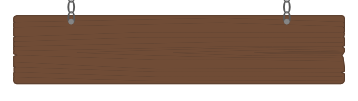
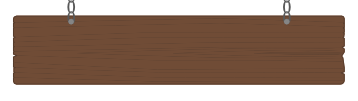
add hangSigns, css, cart

diff --git a/src/scss/_header.scss b/src/scss/_header.scss
@@ -30,32 +30,45 @@ header {
 nav {
   width: 100%;
 
+  display: flex;
+  flex-direction: row;
+  justify-content: space-between;
+  gap: 70px;
+
   .logo-container {
     display: flex;
     // width: 5em;
-    height: 100px;
-    width: 5vw;
+    height: 10vh;
+    width: 10vw;
     justify-content: center;
     align-items: center;
     cursor: pointer;
 
     .logo-icon {
-      position: fixed;
-      top: 3vh;
-      left: 6vw;
+      // position: fixed;
+      margin-left: 20vw;
+      margin-top: 3vh;
+      // top: 3vh;
+      // // align-self: center;
+      // left: 6vw;
       mix-blend-mode: multiply;
 
-      height: 7%;
+      height: 7vh;
       @include mixins.tablet {
         left: 2vw;
         top: 15px;
       }
       @include mixins.desktop {
-        left: 2vw;
-        top: 25px;
+        margin-left: 2vw;
+        // left: 2vw;
+        // top: 2vh; //25px;;
 
         // font-size: 4rem;
         // color: white;
+      }
+
+      &:hover {
+        mix-blend-mode: soft-light; //soft-light eller color-burn
       }
     }
   }
@@ -66,12 +79,6 @@ nav {
     flex-direction: row;
     justify-content: center;
   }
-
-  display: flex;
-  flex-direction: row;
-  justify-content: space-between;
-  gap: 70px;
-
   .desktopnav-menu {
     display: none;
     flex-direction: column;
@@ -91,23 +98,69 @@ nav {
 
   .menu-link {
     text-decoration: none;
-    color: white;
+    color: col.$color-burned;
+    mix-blend-mode: multiply;
+    font-family: "Cinzel", serif;
+    font-weight: bold;
 
     &:hover {
-      color: grey;
+      mix-blend-mode: color-burn; //soft-light eller color-burn
+      color: rgb(200, 200, 200);
     }
   }
 
   .shoppingcart-container {
     display: flex;
-    width: 80px;
+    width: 10vw;
+    height: 10vh;
+    // width: 80px;
     justify-content: center;
     align-items: center;
     cursor: pointer;
+    display: flex;
 
-    .icon {
-      font-size: 4rem;
-      color: white;
+    // @include mixins.desktop {
+    //   // padding-left: 30px;
+    //   padding-right: 0px;
+    // }
+
+    .cart-icon {
+      // margin-left: 10vw;
+      // margin-top: 1vh;
+      // margin-left: 20vw;
+      margin-top: 2vh;
+      // position: fixed;
+      // top: 2vh;
+      mix-blend-mode: multiply;
+
+      // height: 7%;
+      // position: fixed;
+      // top: 3vh;
+      // align-self: center;
+      // left: 6vw;
+      margin-right: 12vw;
+
+      mix-blend-mode: multiply;
+      height: 7vh;
+
+      // height: 50px;
+      @include mixins.tablet {
+        right: 2vw;
+        top: 15px;
+      }
+      @include mixins.desktop {
+        // top: 1.5vh; //25px;
+        margin-right: 2vw;
+        margin-top: 1.5vh;
+
+        // left: 2vw;
+        // top: 2vh;//25px;;
+        // font-size: 4rem;
+        // color: white;
+      }
+      &:hover {
+        mix-blend-mode: soft-light; //soft-light eller color-burn
+      }
     }
   }
 }
@@ -116,14 +169,22 @@ nav {
 #hamburgerButton {
   justify-content: center;
   align-items: center;
-  background-color: col.$color-accent-purple;
-  width: 80px;
+  // background-color: col.$color-accent-purple;
+  background-color: transparent;
+  // width: 80px;
   border: none;
   cursor: pointer;
   z-index: 100;
 
+  padding-top: 2vh;
+  padding-right: 5vw;
+
+  color: col.$color-burned;
+  mix-blend-mode: multiply;
+
   &:hover {
-    background-color: col.$color-grey-light;
+    background-color: transparent; //col.$color-grey-light;
+    mix-blend-mode: soft-light; //soft-light eller color-burn
   }
 
   @include mixins.desktop {
@@ -132,7 +193,7 @@ nav {
 
   .icon {
     font-size: 4rem;
-    color: white;
+    // // color: white;
   }
 
   #closeIcon {
@@ -141,14 +202,14 @@ nav {
 }
 
 .mobilenav-container {
-  background-color: lightgreen;
+  // background-color: lightgreen;
   display: none;
   flex-direction: column;
   transform: translateY(-100%);
   transition: transform 0.2s;
   position: absolute;
   width: 100vw;
-  top: 10vh;
+  top: 8vh;
 
   @include mixins.desktop {
     display: none;
@@ -165,8 +226,14 @@ nav {
 
   .hamburger-menu-item {
     width: 100vw;
-    height: 3em;
-    background-color: col.$color-grey-dark;
+    height: 10vh;
+    // top: 10vh;
+    // background-color: col.$color-grey-dark;
+    background-image: url(../assets/images/MobileHangingSign.png);
+    background-repeat: no-repeat;
+    background-position: top center;
+    background-size: 100vw;
+
     display: flex;
     justify-content: center;
   }
@@ -176,18 +243,24 @@ nav {
     justify-content: center;
     align-items: center;
     text-decoration: none;
-    color: col.$color-text-light;
+    // color: col.$color-text-light;
+    color: col.$color-burned;
+    mix-blend-mode: multiply;
+    font-family: "Cinzel", serif;
+    font-weight: bold;
     width: 100vw;
     font-size: 1.5rem;
+    margin-top: 10px;
 
     &:hover {
-      color: grey;
+      mix-blend-mode: color-burn; //soft-light eller color-burn
+      color: rgb(200, 200, 200);
     }
   }
 
   &.showMenu {
     transform: translateY(0);
-    background-color: col.$color-accent-purple;
+    // background-color: col.$color-accent-purple;
     display: flex;
   }
 

diff --git a/src/html/checkout.html b/src/html/checkout.html
@@ -38,7 +38,11 @@
             </li>
           </ul>
           <div class="shoppingcart-container">
-            <span class="material-symbols-rounded icon">shopping_bag</span>
+            <img
+              src="../assets/images/cart.png"
+              alt="Shopping Cart Icon"
+              class="cart-icon"
+            />
           </div>
         </div>
       </nav>
@@ -63,7 +67,9 @@
       <article id="user-cart__container" class="user-cart__invisible"></article>
     </header>
 
+    <!-- main-content -->
     <main id="checkout">
+      <h1 id="shoppingCart-title">Your selected potions:</h1>
       <section class="shoppingCart" id="shoppingCart">
         <h1>If you see this, <br />ghasts have taken your items</h1>
         <h3>

diff --git a/src/scss/_checkout.scss b/src/scss/_checkout.scss
@@ -8,10 +8,19 @@
   justify-content: center;
   background-color: col.$color-grey-very-dark;
   gap: 1em;
+  margin-top: 10vh;
 
-  height: 80vh; //ändra efter header och footer är insatta
+  // height: 80vh; //ändra efter header och footer är insatta
 }
+#shoppingCart-title {
+  font-size: 1.8em;
+  margin: 15px 0px 5px 0px;
 
+  @include mix.desktop {
+    font-size: 2em;
+    // margin: 15px 0px 5px 0px;
+  }
+}
 .shoppingCart {
   display: flex;
   flex-direction: column;
@@ -107,5 +116,6 @@
     padding: 5px;
     height: 8vh;
     width: 20%;
+    margin-bottom: 20px;
   }
 }

diff --git a/src/html/products.html b/src/html/products.html
@@ -42,7 +42,11 @@
             </li>
           </ul>
           <div class="shoppingcart-container">
-            <span class="material-symbols-rounded icon">shopping_bag</span>
+            <img
+              src="../assets/images/cart.png"
+              alt="Shopping Cart Icon"
+              class="cart-icon"
+            />
           </div>
         </div>
       </nav>

diff --git a/src/index.html b/src/index.html
@@ -46,7 +46,11 @@
             </li>
           </ul>
           <div class="shoppingcart-container">
-            <span class="material-symbols-rounded icon">shopping_bag</span>
+            <img
+              src="./assets/images/cart.png"
+              alt="Shopping Cart Icon"
+              class="cart-icon"
+            />
           </div>
         </div>
       </nav>

diff --git a/src/scss/_colors.scss b/src/scss/_colors.scss
@@ -13,3 +13,5 @@ $color-accent-purple: #3d348b;
 //eventuellt förslag till lila #3b1865, #4c2072
 
 $color-text-light: #ffffff;
+
+$color-burned: #614635;
